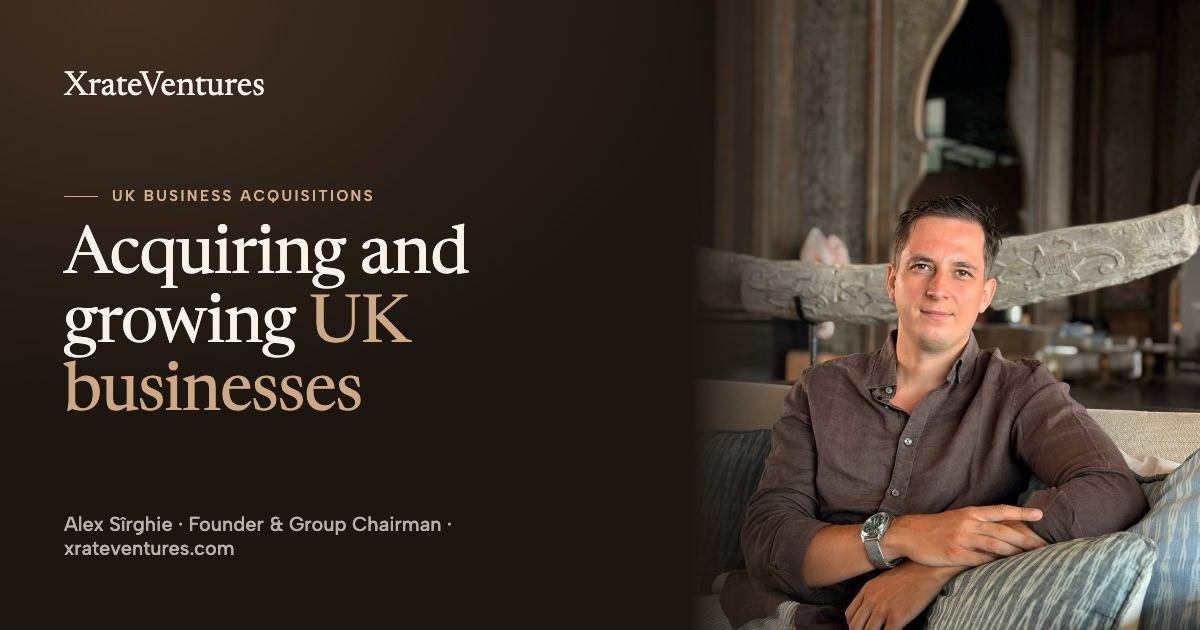
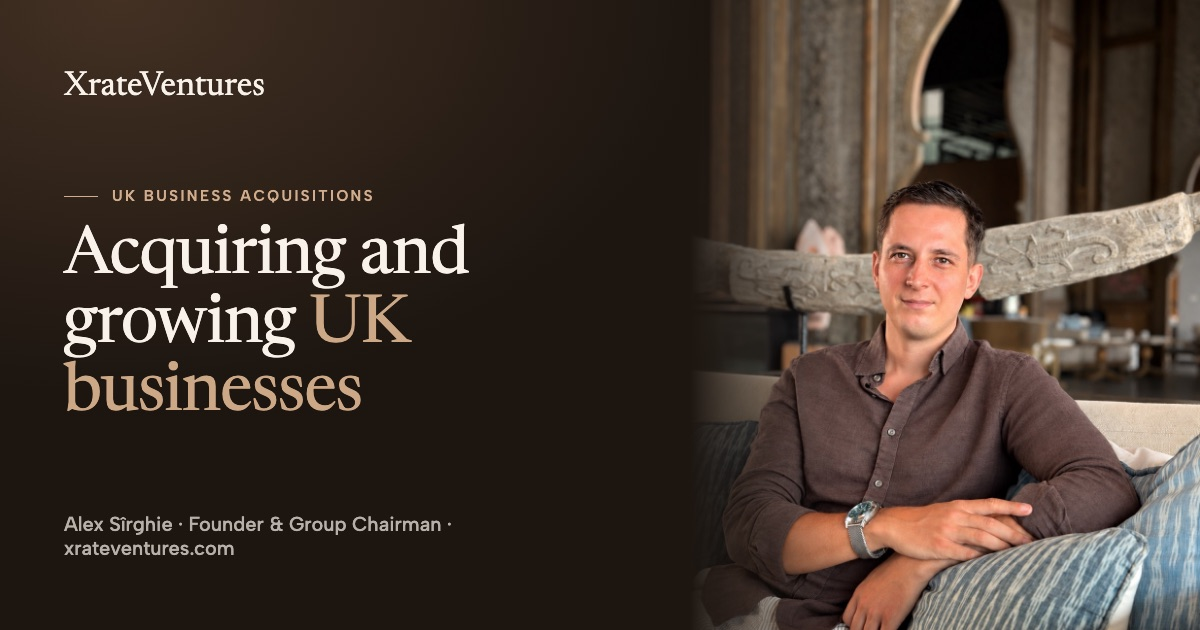
Use Alex's new seated portrait on home, founder and about pages and in link previews

Changed region(s): [[0.5858, 0.0, 1.0, 1.0], [0.5858, 0.4524, 0.6167, 0.4825]]

diff --git a/src/app/page.tsx b/src/app/page.tsx
@@ -103,7 +103,7 @@ export default function Home() {
         <div className="container founder">
           <figure className="media media--portrait" data-reveal="image">
             {/* eslint-disable-next-line @next/next/no-img-element */}
-            <img src="/images/alex-smile.jpg" alt="Alex Sîrghie, Founder and Group Chairman of XrateVentures" loading="lazy" decoding="async" />
+            <img src="/images/alex-seated.jpg" alt="Alex Sîrghie, Founder and Group Chairman of XrateVentures" loading="lazy" decoding="async" />
           </figure>
           <div className="head">
             <span className="kicker" data-reveal>Led by a founder, not a fund</span>

diff --git a/src/app/about/page.tsx b/src/app/about/page.tsx
@@ -62,7 +62,7 @@ export default function About() {
         <div className="container quote-with-photo">
           <figure className="media" data-reveal="image">
             {/* eslint-disable-next-line @next/next/no-img-element */}
-            <img src="/images/alex-sofa.jpg" alt="Alex Sîrghie" loading="lazy" decoding="async" />
+            <img src="/images/alex-seated.jpg" alt="Alex Sîrghie" loading="lazy" decoding="async" />
           </figure>
           <div>
             <span className="kicker" data-reveal>A note from our founder</span>

diff --git a/src/app/founder/page.tsx b/src/app/founder/page.tsx
@@ -27,7 +27,7 @@ export default function Founder() {
     <>
       <Hero
         variant="portrait"
-        image="/images/alex-portrait.jpg"
+        image="/images/alex-seated.jpg"
         imageAlt="Alex Sîrghie"
         kicker="Who I am"
         lines={["I’m Alex.", <span className="accent" key="a">I buy exceptional</span>, <span className="accent" key="b">businesses and</span>, <span className="accent" key="c">help them grow.</span>]}
